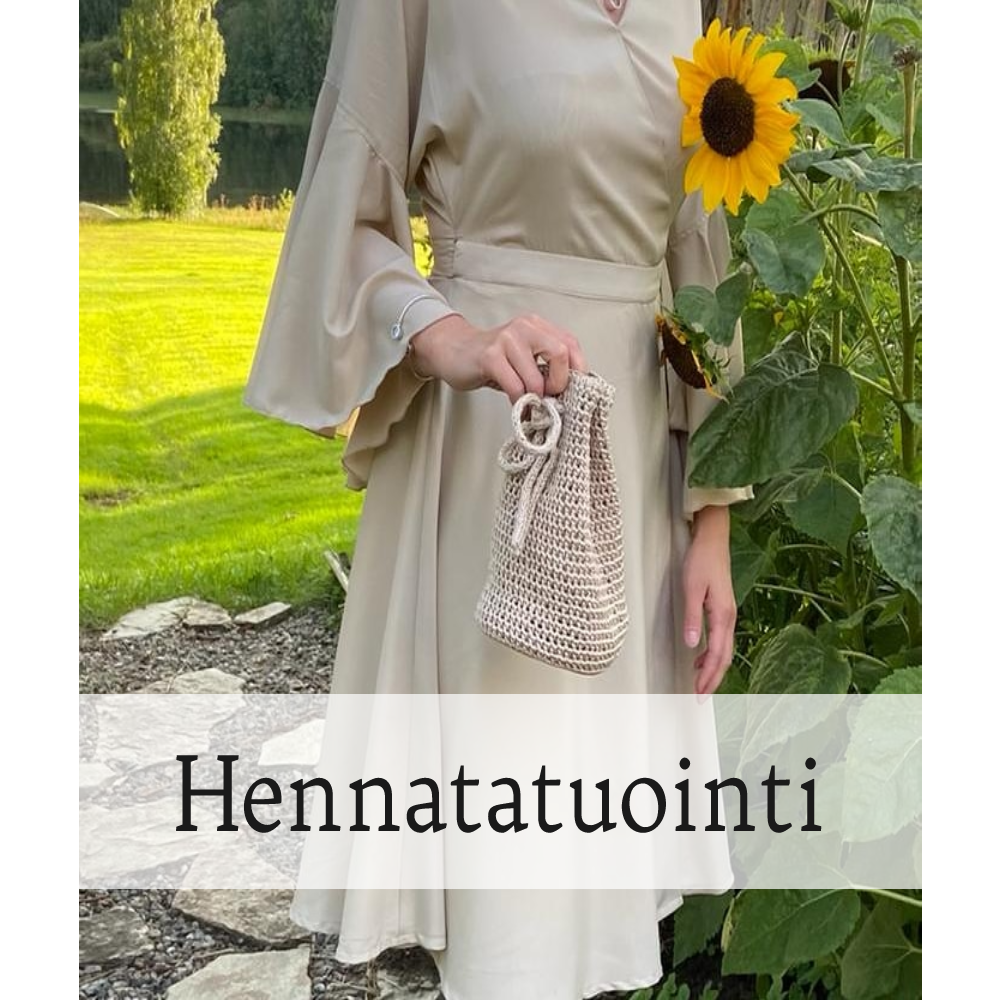
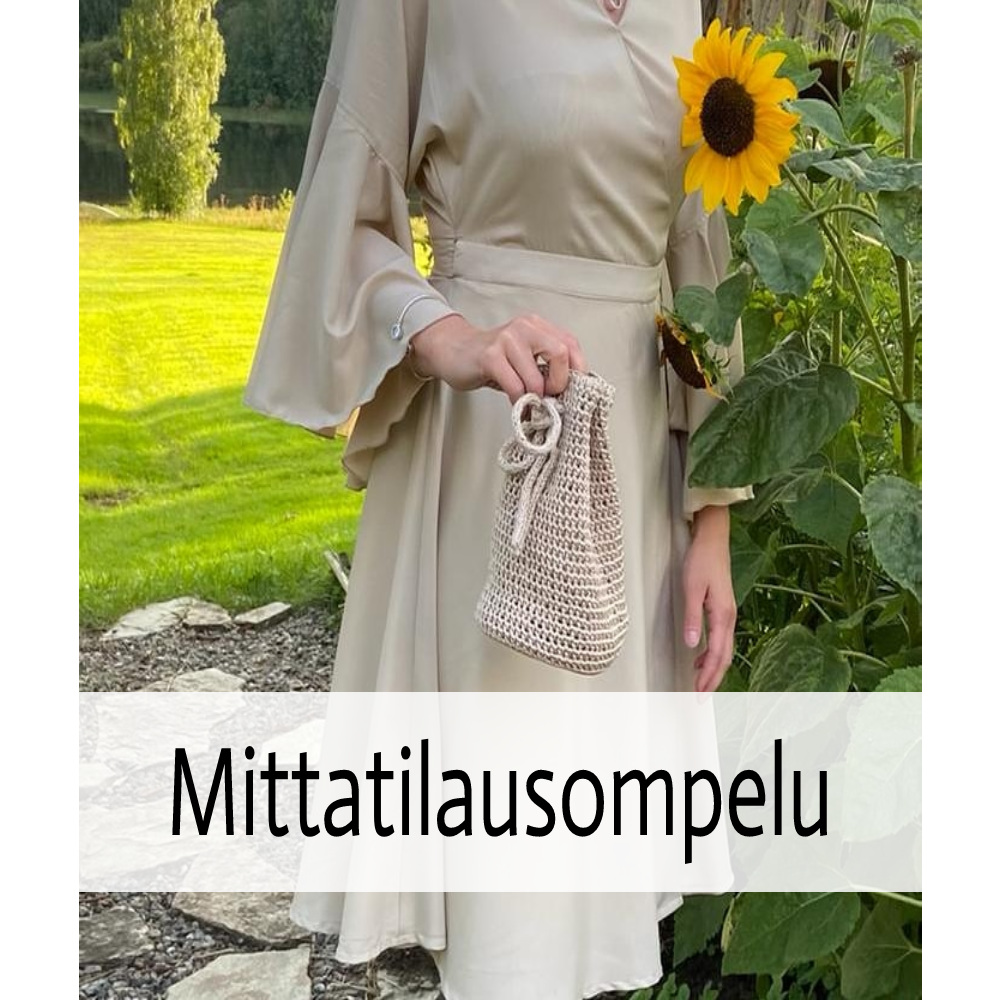
wip

Changed region(s): [[0.062, 0.682, 0.93, 0.899], [0.062, 0.682, 0.124, 0.713]]

diff --git a/src/views/Home.vue b/src/views/Home.vue
@@ -11,22 +11,20 @@
         <div class="row full-width">
           <img
             class="custom-image "
-            src="@/assets/images/profile.png"
+            src="@/assets/images/profile2.jpeg"
             alt="profile-pic"
           />
         </div>
       </div>
       <div class="col-xs-12 col-sm-6 q-my-auto">
         <h6 class="q-ma-sm">
-          Hei! Olen Afshan mittatilausompelija Niiralassa. Haluan palvella teitä
-          oman kylän väkeä. Voit tilata minulta yksilöllisiä
-          mittatilausvaatteita ja kodin sisustusompelua. Teen myös makrame
-          solmeilutuotteita, aina sisustuselementeistä koruihin.
-          Hemmotteluhetkiin ja juhlien koruksi voit tilata minulta
-          luonnonmukaisen hennatatuoinnin. Mikäli elämäsi on kiireistä tai
-          voimasi ovat vähissä voin myös siivota kotisi. Otathan yhteyttä, niin
-          sovitaan tarkemmin! Kotitoimistoni osoite on Kaikukatu 82 a 2, ja
-          yritykseni osoite Puh:
+          Olen kuopiolainen ompelualan yrittäjä ja ompelen unelmiesi vaatteen
+          ammattitaidolla ja laadukkaasti. Minulla on vahva kokemus alalta ja
+          päivitän taitojani jatkuvasti. Kun kaipaat kotiisi uutta
+          sisustuselementtiä voin valmistaa sen sinulle makrame-solmeilulla.
+          Samalla tekniikalla voin tehdä myös asuusi sopivat korut ja laukun.
+          Juhlan ja arjen hemmottelun mausteeksi voit tilata minulta
+          luonnonmukaisen henna-tatuoinnin.
         </h6>
       </div>
     </div>
